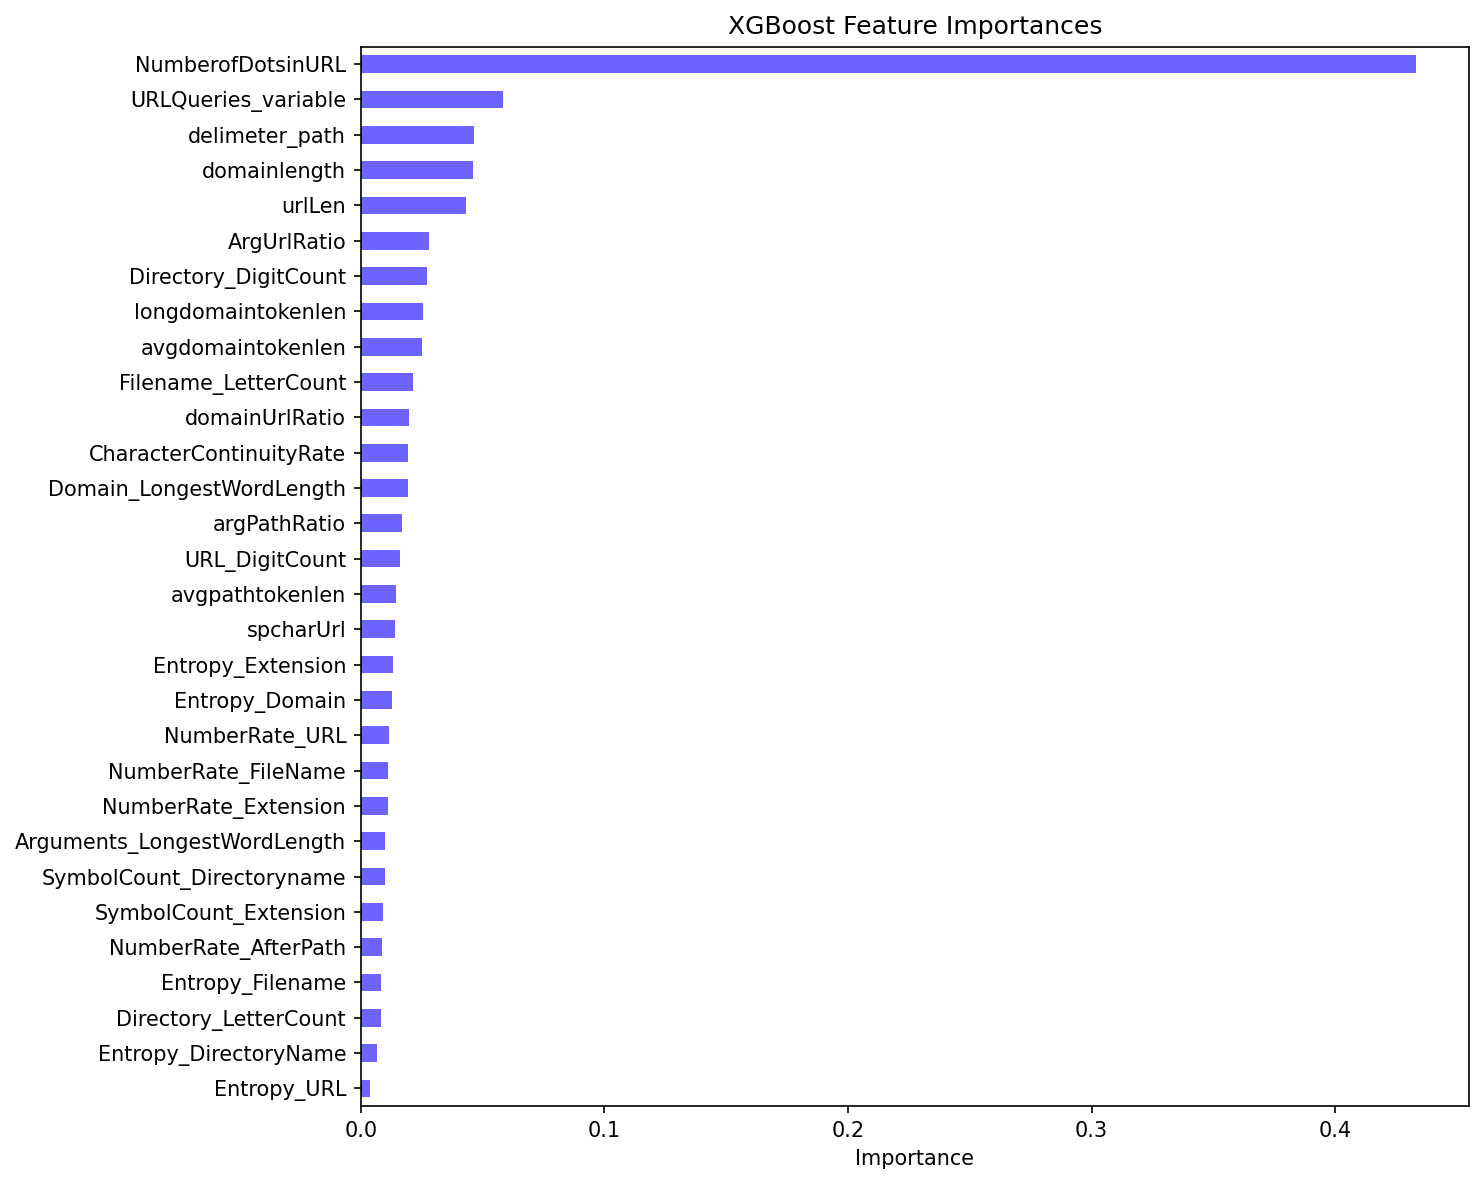
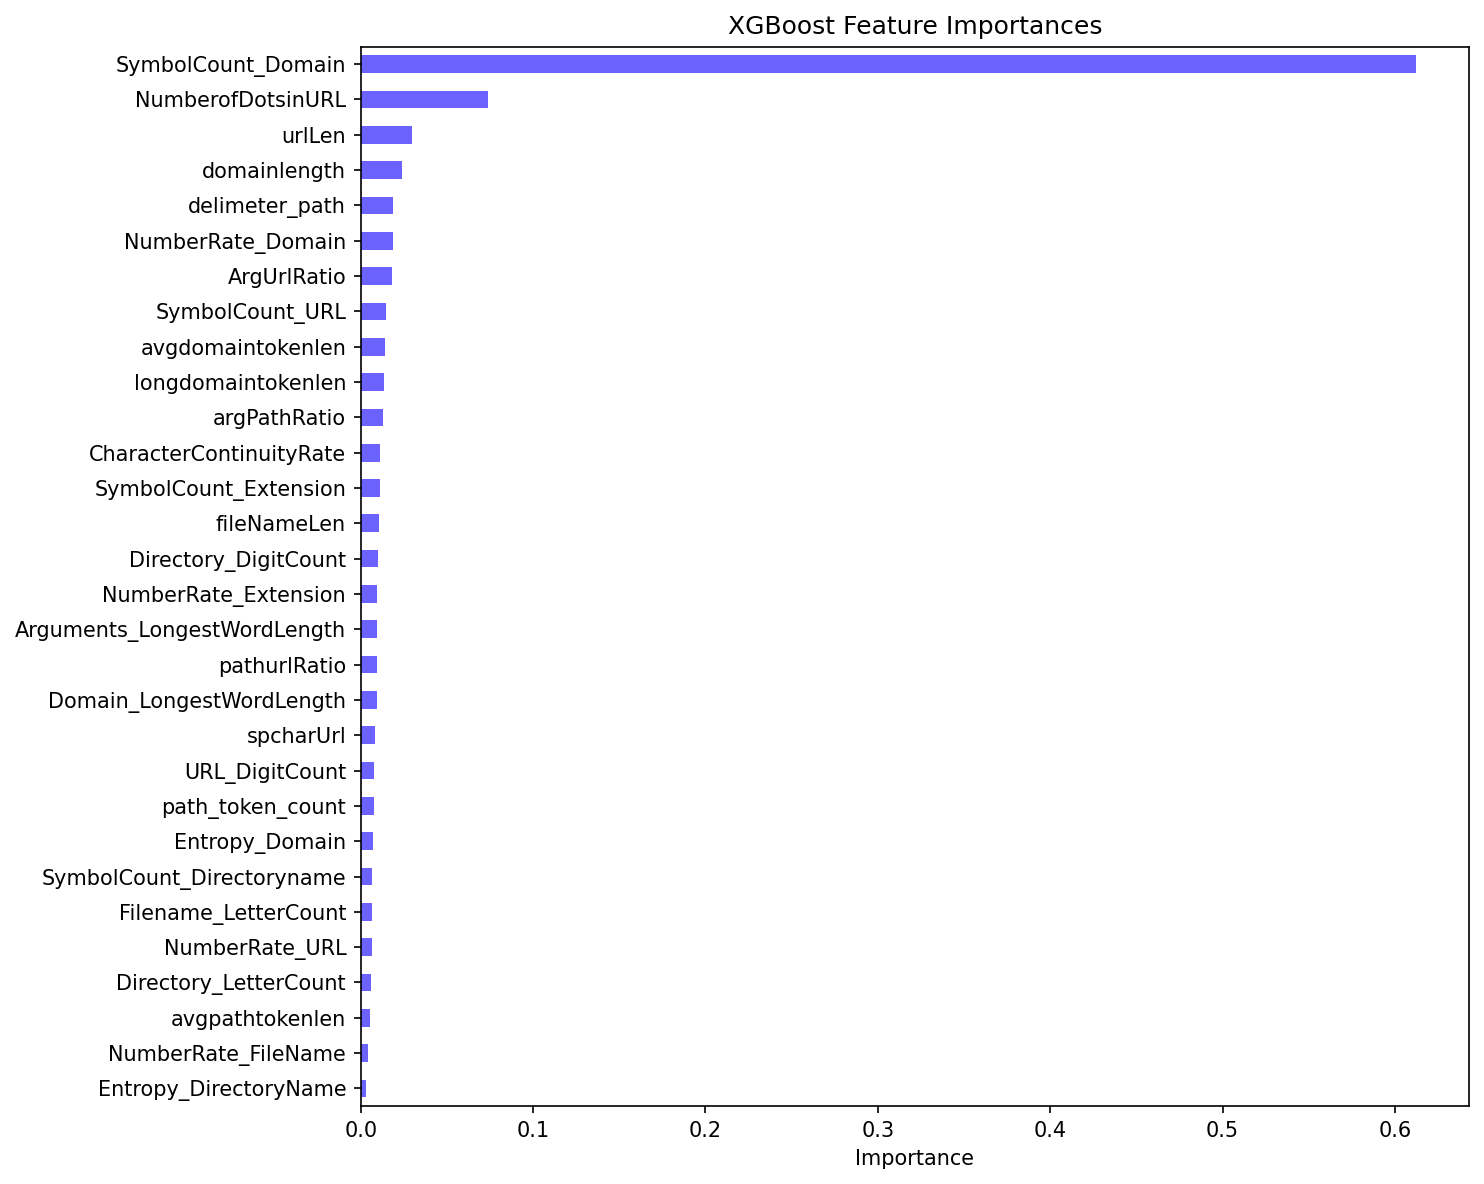
Update feature selection to multi-class and align extractor

diff --git a/backend/feature_extractor.py b/backend/feature_extractor.py
@@ -61,6 +61,8 @@ def extract_features(url: str):
     features['Entropy_URL'] = entropy(url)
     
     features['spcharUrl'] = len(re.findall(r'[^a-zA-Z0-9]', url))
+    features['SymbolCount_URL'] = features['spcharUrl']
+    features['pathurlRatio'] = len(path) / urlLen if urlLen > 0 else 0
     
     # CharacterContinuityRate (Longest sequence of letters)
     consecutive_chars = re.findall(r'[a-zA-Z]+', url)
@@ -70,6 +72,8 @@ def extract_features(url: str):
     features['Entropy_Domain'] = entropy(domain)
     features['Domain_LongestWordLength'] = get_longest_word_len(domain)
     features['domainUrlRatio'] = len(domain) / urlLen if urlLen > 0 else 0
+    features['SymbolCount_Domain'] = len(re.findall(r'[^a-zA-Z0-9]', domain))
+    features['NumberRate_Domain'] = sum(c.isdigit() for c in domain) / len(domain) if domain else 0
     
     domain_tokens = [t for t in re.split(r'\.', domain) if t]
     if domain_tokens:
@@ -83,11 +87,13 @@ def extract_features(url: str):
         features['Entropy_DirectoryName'] = entropy(directory)
     
     path_tokens = [t for t in re.split(r'[/]', path) if t]
+    features['path_token_count'] = len(path_tokens)
     if path_tokens:
         features['avgpathtokenlen'] = sum(len(t) for t in path_tokens) / len(path_tokens)
     features['delimeter_path'] = len(re.findall(r'[^a-zA-Z0-9]', path)) if path else -1
     
     if filename:
+        features['fileNameLen'] = len(filename)
         features['Filename_LetterCount'] = sum(c.isalpha() for c in filename)
         features['NumberRate_FileName'] = sum(c.isdigit() for c in filename) / len(filename)
         features['Entropy_Filename'] = entropy(filename)